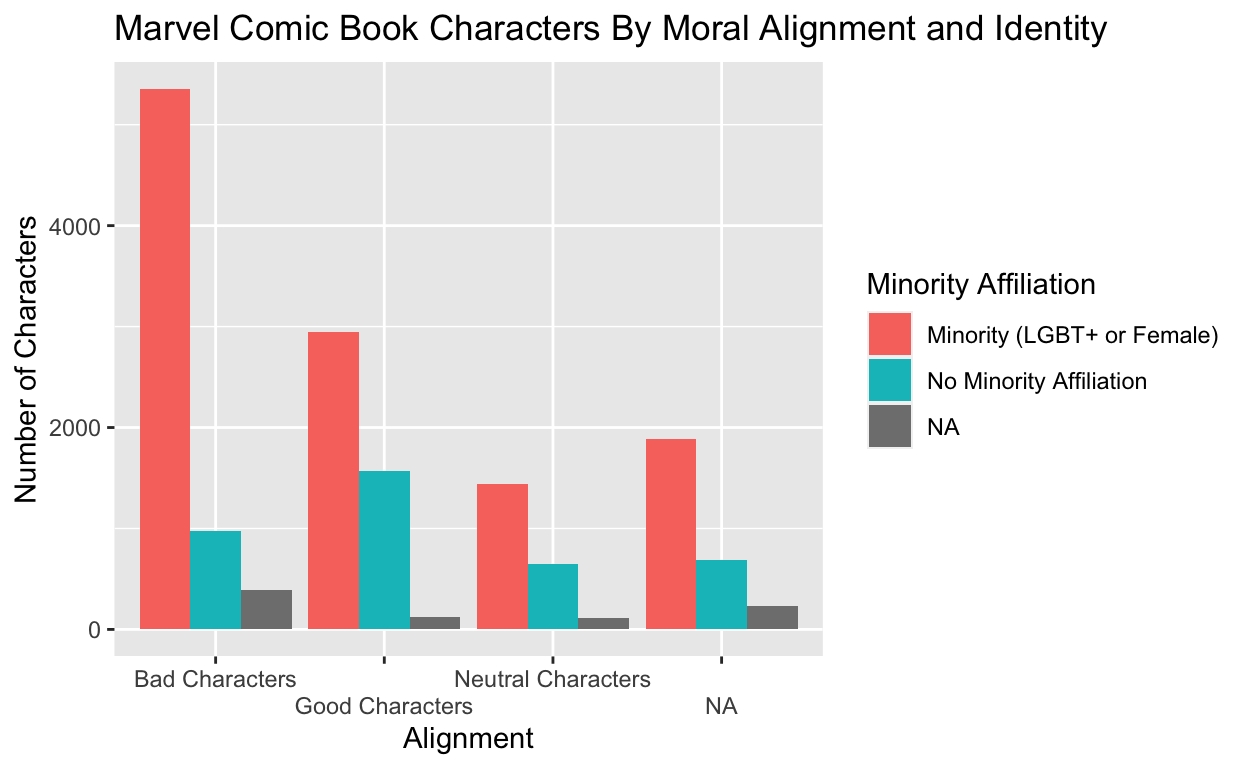
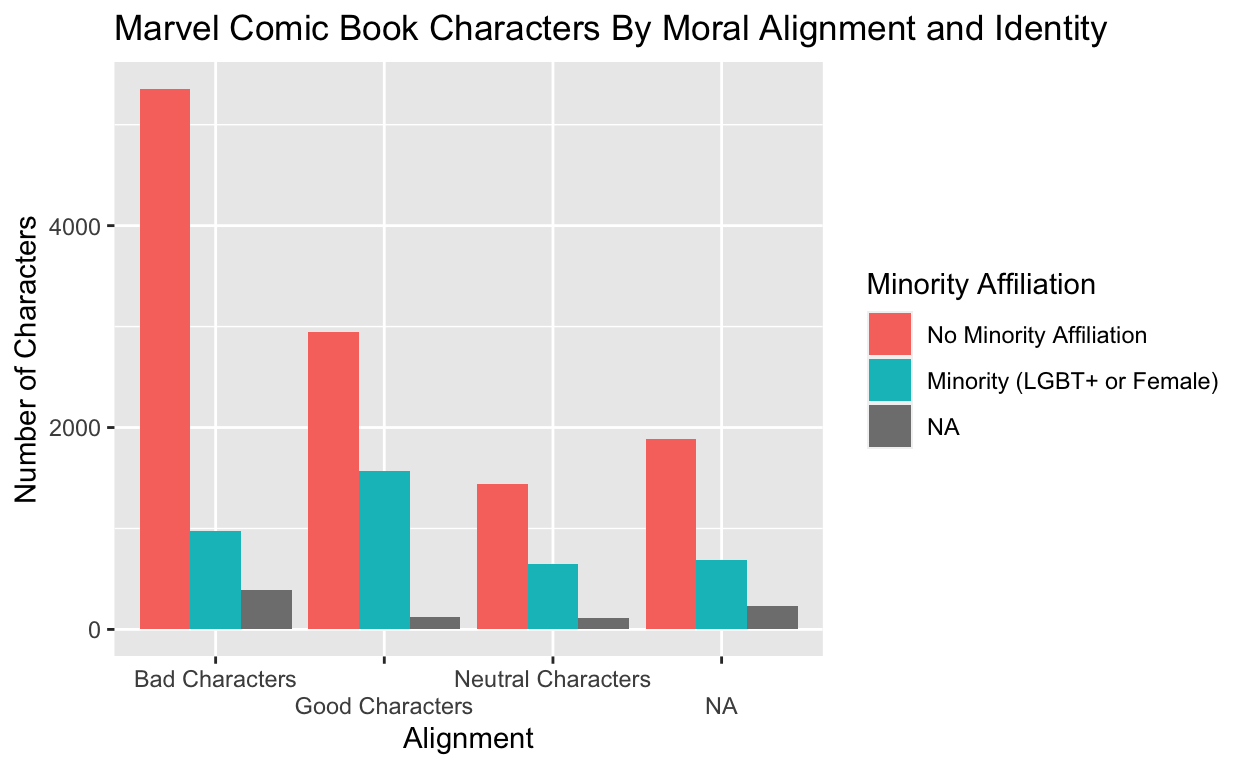
commit

Changed region(s): [[0.75, 0.4062, 0.9688, 0.5312]]

diff --git a/index.html b/index.html
@@ -115,7 +115,7 @@ code span.wa { color: #5e5e5e; font-style: italic; } /* Warning */
   <!--/radix_placeholder_rmarkdown_metadata-->
   
   <script type="text/json" id="radix-resource-manifest">
-  {"type":"character","attributes":{},"value":["data/marvel-wikia-data.csv","index_files/anchor-4.2.2/anchor.min.js","index_files/bowser-1.9.3/bowser.min.js","index_files/distill-2.2.21/template.v2.js","index_files/figure-html5/unnamed-chunk-2-1.png","index_files/header-attrs-2.17/header-attrs.js","index_files/header-attrs-2.24/header-attrs.js","index_files/jquery-3.6.0/jquery-3.6.0.js","index_files/jquery-3.6.0/jquery-3.6.0.min.js","index_files/jquery-3.6.0/jquery-3.6.0.min.map","index_files/popper-2.6.0/popper.min.js","index_files/tippy-6.2.7/tippy-bundle.umd.min.js","index_files/tippy-6.2.7/tippy-light-border.css","index_files/tippy-6.2.7/tippy.css","index_files/tippy-6.2.7/tippy.umd.min.js","index_files/webcomponents-2.0.0/webcomponents.js"]}
+  {"type":"character","attributes":{},"value":["data/marvel-wikia-data.csv","index_files/anchor-4.2.2/anchor.min.js","index_files/bowser-1.9.3/bowser.min.js","index_files/distill-2.2.21/template.v2.js","index_files/figure-html5/unnamed-chunk-2-1.png","index_files/figure-html5/unnamed-chunk-3-1.png","index_files/figure-html5/unnamed-chunk-4-1.png","index_files/header-attrs-2.17/header-attrs.js","index_files/header-attrs-2.24/header-attrs.js","index_files/jquery-3.6.0/jquery-3.6.0.js","index_files/jquery-3.6.0/jquery-3.6.0.min.js","index_files/jquery-3.6.0/jquery-3.6.0.min.map","index_files/popper-2.6.0/popper.min.js","index_files/tippy-6.2.7/tippy-bundle.umd.min.js","index_files/tippy-6.2.7/tippy-light-border.css","index_files/tippy-6.2.7/tippy.css","index_files/tippy-6.2.7/tippy.umd.min.js","index_files/webcomponents-2.0.0/webcomponents.js"]}
   </script>
   <!--radix_placeholder_navigation_in_header-->
   <!--/radix_placeholder_navigation_in_header-->
@@ -1561,7 +1561,7 @@ code span.wa { color: #5e5e5e; font-style: italic; } /* Warning */
 <span>       x <span class='op'>=</span> <span class='st'>"Alignment"</span>,</span>
 <span>       y <span class='op'>=</span> <span class='st'>"Number of Characters"</span>,</span>
 <span>       fill <span class='op'>=</span> <span class='st'>"Minority Affiliation"</span><span class='op'>)</span> <span class='op'>+</span></span>
-<span>  <span class='fu'><a href='https://ggplot2.tidyverse.org/reference/scale_colour_discrete.html'>scale_fill_discrete</a></span><span class='op'>(</span>name <span class='op'>=</span> <span class='st'>"Minority Affiliation"</span>, labels <span class='op'>=</span> <span class='fu'><a href='https://rdrr.io/r/base/c.html'>c</a></span><span class='op'>(</span><span class='st'>"Minority (LGBT+ or Female)"</span>, <span class='st'>"No Minority Affiliation"</span><span class='op'>)</span><span class='op'>)</span> <span class='op'>+</span></span>
+<span>  <span class='fu'><a href='https://ggplot2.tidyverse.org/reference/scale_colour_discrete.html'>scale_fill_discrete</a></span><span class='op'>(</span>name <span class='op'>=</span> <span class='st'>"Minority Affiliation"</span>, labels <span class='op'>=</span> <span class='fu'><a href='https://rdrr.io/r/base/c.html'>c</a></span><span class='op'>(</span><span class='st'>"No Minority Affiliation"</span>, <span class='st'>"Minority (LGBT+ or Female)"</span><span class='op'>)</span><span class='op'>)</span> <span class='op'>+</span></span>
 <span>  <span class='fu'><a href='https://ggplot2.tidyverse.org/reference/scale_discrete.html'>scale_x_discrete</a></span><span class='op'>(</span>guide <span class='op'>=</span> <span class='fu'><a href='https://ggplot2.tidyverse.org/reference/guide_axis.html'>guide_axis</a></span><span class='op'>(</span>n.dodge<span class='op'>=</span><span class='fl'>2</span><span class='op'>)</span><span class='op'>)</span></span>
 <span></span>
 <span><span class='va'>minority_graph</span></span></code></pre>
@@ -1569,7 +1569,39 @@ code span.wa { color: #5e5e5e; font-style: italic; } /* Warning */
 <p><img src="index_files/figure-html5/unnamed-chunk-2-1.png" width="624" /></p>
 </div>
 <div class="layout-chunk" data-layout="l-body">
-
+<div class="sourceCode">
+<pre class="sourceCode r"><code class="sourceCode r"><span><span class='va'>female_graph</span> <span class='op'>&lt;-</span> <span class='va'>data2</span> <span class='op'>|&gt;</span></span>
+<span>  <span class='fu'><a href='https://dplyr.tidyverse.org/reference/group_by.html'>group_by</a></span><span class='op'>(</span><span class='va'>ALIGN</span>, <span class='va'>SEX</span><span class='op'>)</span> <span class='op'>|&gt;</span></span>
+<span>  <span class='fu'><a href='https://dplyr.tidyverse.org/reference/summarise.html'>summarize</a></span><span class='op'>(</span>n <span class='op'>=</span> <span class='fu'><a href='https://dplyr.tidyverse.org/reference/context.html'>n</a></span><span class='op'>(</span><span class='op'>)</span><span class='op'>)</span> <span class='op'>|&gt;</span></span>
+<span>  <span class='fu'><a href='https://ggplot2.tidyverse.org/reference/ggplot.html'>ggplot</a></span><span class='op'>(</span>mapping <span class='op'>=</span> <span class='fu'><a href='https://ggplot2.tidyverse.org/reference/aes.html'>aes</a></span><span class='op'>(</span>x <span class='op'>=</span> <span class='va'>ALIGN</span>, y <span class='op'>=</span> <span class='va'>n</span><span class='op'>)</span><span class='op'>)</span> <span class='op'>+</span></span>
+<span>  <span class='fu'><a href='https://ggplot2.tidyverse.org/reference/geom_bar.html'>geom_col</a></span><span class='op'>(</span><span class='fu'><a href='https://ggplot2.tidyverse.org/reference/aes.html'>aes</a></span><span class='op'>(</span>fill <span class='op'>=</span> <span class='va'>SEX</span><span class='op'>)</span>, position <span class='op'>=</span> <span class='st'>"dodge"</span><span class='op'>)</span> <span class='op'>+</span></span>
+<span>  <span class='fu'><a href='https://ggplot2.tidyverse.org/reference/labs.html'>labs</a></span><span class='op'>(</span>title <span class='op'>=</span> <span class='st'>"Marvel Comic Book Characters By Moral Alignment and Gender Identity"</span>,</span>
+<span>       x <span class='op'>=</span> <span class='st'>"Alignment"</span>,</span>
+<span>       y <span class='op'>=</span> <span class='st'>"Number of Characters"</span>,</span>
+<span>       fill <span class='op'>=</span> <span class='st'>"Minority Affiliation"</span><span class='op'>)</span> <span class='op'>+</span></span>
+<span>    <span class='fu'><a href='https://ggplot2.tidyverse.org/reference/scale_discrete.html'>scale_x_discrete</a></span><span class='op'>(</span>guide <span class='op'>=</span> <span class='fu'><a href='https://ggplot2.tidyverse.org/reference/guide_axis.html'>guide_axis</a></span><span class='op'>(</span>n.dodge<span class='op'>=</span><span class='fl'>2</span><span class='op'>)</span><span class='op'>)</span></span>
+<span></span>
+<span><span class='va'>female_graph</span></span></code></pre>
+</div>
+<p><img src="index_files/figure-html5/unnamed-chunk-3-1.png" width="624" /></p>
+</div>
+<div class="layout-chunk" data-layout="l-body">
+<div class="sourceCode">
+<pre class="sourceCode r"><code class="sourceCode r"><span><span class='va'>lgbt_graph</span> <span class='op'>&lt;-</span> <span class='va'>data2</span> <span class='op'>|&gt;</span></span>
+<span>  <span class='fu'><a href='https://tidyr.tidyverse.org/reference/drop_na.html'>drop_na</a></span><span class='op'>(</span><span class='va'>GSM</span><span class='op'>)</span> <span class='op'>|&gt;</span></span>
+<span>  <span class='fu'><a href='https://dplyr.tidyverse.org/reference/group_by.html'>group_by</a></span><span class='op'>(</span><span class='va'>ALIGN</span>, <span class='va'>GSM</span><span class='op'>)</span> <span class='op'>|&gt;</span></span>
+<span>  <span class='fu'><a href='https://dplyr.tidyverse.org/reference/summarise.html'>summarize</a></span><span class='op'>(</span>n <span class='op'>=</span> <span class='fu'><a href='https://dplyr.tidyverse.org/reference/context.html'>n</a></span><span class='op'>(</span><span class='op'>)</span><span class='op'>)</span> <span class='op'>|&gt;</span></span>
+<span>  <span class='fu'><a href='https://ggplot2.tidyverse.org/reference/ggplot.html'>ggplot</a></span><span class='op'>(</span>mapping <span class='op'>=</span> <span class='fu'><a href='https://ggplot2.tidyverse.org/reference/aes.html'>aes</a></span><span class='op'>(</span>x <span class='op'>=</span> <span class='va'>ALIGN</span>, y <span class='op'>=</span> <span class='va'>n</span><span class='op'>)</span><span class='op'>)</span> <span class='op'>+</span></span>
+<span>  <span class='fu'><a href='https://ggplot2.tidyverse.org/reference/geom_bar.html'>geom_col</a></span><span class='op'>(</span><span class='fu'><a href='https://ggplot2.tidyverse.org/reference/aes.html'>aes</a></span><span class='op'>(</span>fill <span class='op'>=</span> <span class='va'>GSM</span><span class='op'>)</span>, position <span class='op'>=</span> <span class='st'>"dodge"</span><span class='op'>)</span> <span class='op'>+</span></span>
+<span>  <span class='fu'><a href='https://ggplot2.tidyverse.org/reference/labs.html'>labs</a></span><span class='op'>(</span>title <span class='op'>=</span> <span class='st'>"Moral Alignment of LGBT+ Marvel Comic Book Characters"</span>,</span>
+<span>       x <span class='op'>=</span> <span class='st'>"Alignment"</span>,</span>
+<span>       y <span class='op'>=</span> <span class='st'>"Number of Characters"</span>,</span>
+<span>       fill <span class='op'>=</span> <span class='st'>"LGBT+ Identity"</span><span class='op'>)</span> <span class='op'>+</span></span>
+<span>    <span class='fu'><a href='https://ggplot2.tidyverse.org/reference/scale_discrete.html'>scale_x_discrete</a></span><span class='op'>(</span>guide <span class='op'>=</span> <span class='fu'><a href='https://ggplot2.tidyverse.org/reference/guide_axis.html'>guide_axis</a></span><span class='op'>(</span>n.dodge<span class='op'>=</span><span class='fl'>2</span><span class='op'>)</span><span class='op'>)</span></span>
+<span></span>
+<span><span class='va'>lgbt_graph</span></span></code></pre>
+</div>
+<p><img src="index_files/figure-html5/unnamed-chunk-4-1.png" width="624" /></p>
 </div>
 <h2 id="project-proposal">Project Proposal</h2>
 <p>For this project, I am planning on using Neil Paine’s data set on diversity and representation in Marvel comics to research the question: Are characters of marginalized identities (members of the LGBT+ community, women) more likely to be portrayed as villains in Marvel comics? Ideally, I would also like to manually add data about characters’ racial background as well (but I’m not sure how to edit a data frame yet so this is tbd).
